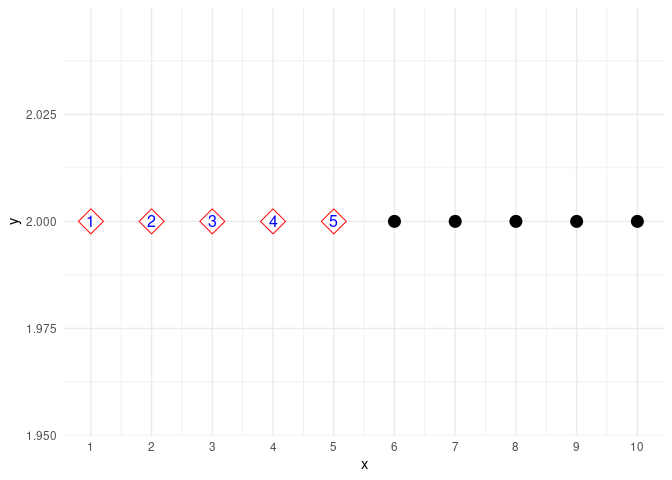
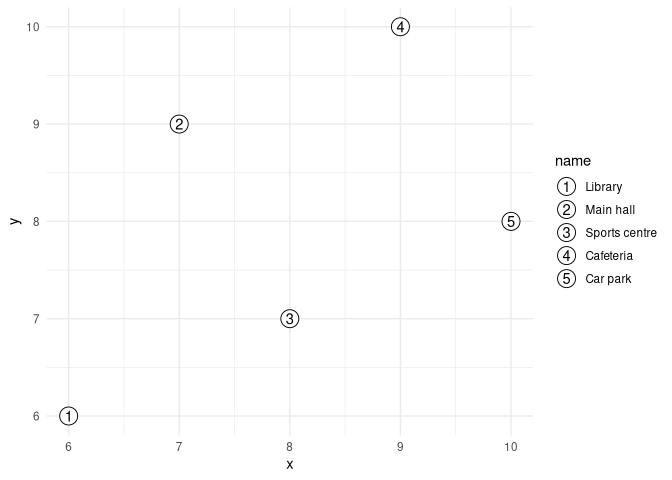
docs: add Get started vignette, pkgdown site and README examples
Assisted-by: Claude Opus 5.5 <noreply@anthropic.com>

diff --git a/README.md b/README.md
@@ -1,42 +1,90 @@
 
 <!-- README.md is generated from README.Rmd. Please edit that file -->
 
-# ggfocus
+# ggindex
 
 <!-- badges: start -->
+
+[![R-CMD-check](https://github.com/discindo/ggindex/actions/workflows/R-CMD-check.yml/badge.svg)](https://github.com/discindo/ggindex/actions/workflows/R-CMD-check.yml)
+[![Codecov test
+coverage](https://codecov.io/gh/discindo/ggindex/graph/badge.svg)](https://app.codecov.io/gh/discindo/ggindex)
 <!-- badges: end -->
 
-The goal of `{ggfocus}` is to plot a scatter with focus points
+`{ggindex}` marks selected points of a ggplot2 plot with numbered
+markers and explains the numbers in a legend, as on an annotated map.
 
 ## Installation
 
-You can install the development version of `{ggfocus}` from
+You can install the development version of `{ggindex}` from
 [GitHub](https://github.com/) with:
 
 ``` r
-# install.packages("devtools")
-devtools::install_github("discindo/ggfocus")
+# install.packages("pak")
+pak::pak("discindo/ggindex")
 ```
 
 ## Example
 
-This is a basic example:
+Map `info` to the description that goes in the legend. The entries are
+numbered in the order they appear in the data; map `label` to choose the
+numbers yourself.
 
 ``` r
-library(ggfocus)
-#> Loading required package: ggplot2
+library(ggplot2)
+library(ggindex)
 
-x <- 1:10
-y <- rep(2, 10)
-rank <- 1:10
-focus <- rep(c(T, F), each = 5)
-info <- sprintf("Info for %s ", 1:10)
-data <- data.frame(x, y, rank, focus, info)
+sites <- data.frame(
+  x = c(6, 7, 8, 9, 10),
+  y = c(6, 9, 7, 10, 8),
+  name = c("Library", "Main hall", "Sports centre", "Cafeteria", "Car park")
+)
 
-ggplot2::ggplot(data, ggplot2::aes(x, y, label = rank, focus = focus, info = info)) +
+ggplot(sites, aes(x, y, info = name)) +
   geom_focus() +
-  ggplot2::scale_x_continuous(breaks = 1:10) +
-  ggplot2::theme_minimal()
+  theme_minimal()
 ```
 
-<img src="man/figures/README-example-1.png" width="100%" />
+<img src="man/figures/README-example-1.png" alt="" width="100%" />
+
+`geom_sf_focus()` does the same on maps made with the sf package:
+
+``` r
+nc <- sf::st_read(system.file("shape/nc.shp", package = "sf"), quiet = TRUE)
+nc <- sf::st_transform(nc, 32119)
+nc_large <- nc[nc$AREA > 0.2, ]
+
+ggplot(nc) +
+  geom_sf(fill = "grey90", colour = "white") +
+  geom_sf_focus(aes(info = NAME), data = nc_large) +
+  scale_info_discrete("Largest counties") +
+  theme_void()
+```
+
+<img src="man/figures/README-map-1.png" alt="" width="100%" />
+
+Map `focus` to number only some observations, and draw the rest with
+`geom_point()`. The markers take the standard `colour`, `fill`, `shape`
+and `size` aesthetics, so regular ggplot2 scales apply. Here the most
+efficient car of each cylinder class is numbered by its overall rank and
+filled by class:
+
+``` r
+cars <- mtcars
+cars$model <- rownames(cars)
+cars$rank <- rank(-cars$mpg, ties.method = "first")
+cars$best <- cars$mpg == ave(cars$mpg, cars$cyl, FUN = max)
+
+ggplot(cars, aes(wt, mpg)) +
+  geom_point(colour = "grey60") +
+  geom_focus(aes(label = rank, focus = best, info = model, fill = factor(cyl))) +
+  scale_fill_brewer("Cylinders", palette = "Set2") +
+  scale_info_discrete("Best in class") +
+  labs(x = "Weight (1000 lbs)", y = "Miles per gallon") +
+  theme_minimal()
+```
+
+<img src="man/figures/README-focus-1.png" alt="" width="100%" />
+
+Map `label`, `focus` and `info` in `geom_focus()` when the plot has
+other layers: layers inherit the mapping of `ggplot()`, and their
+observations would also appear in the legend.
